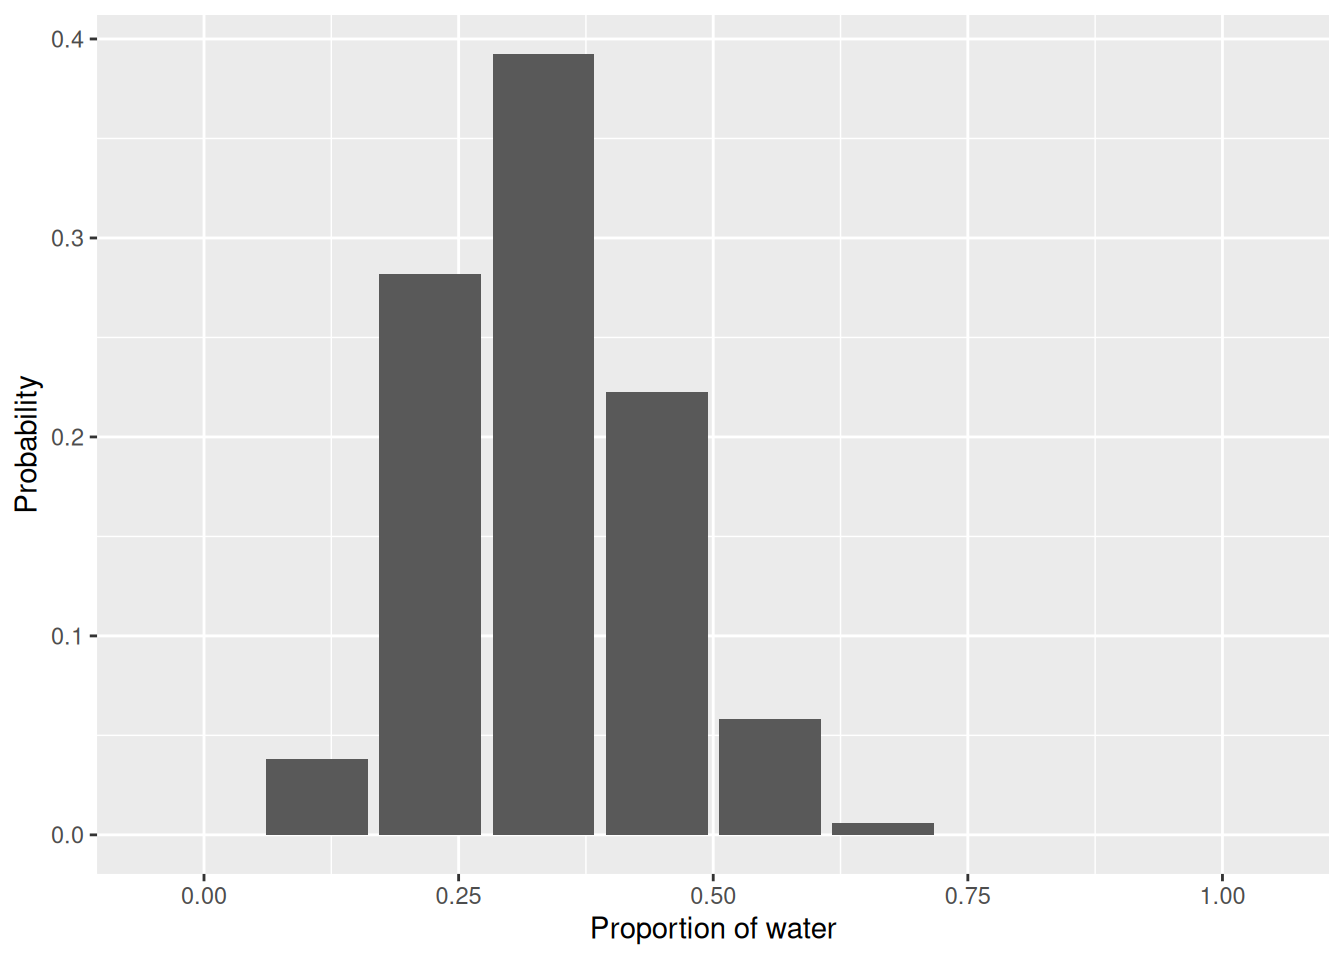
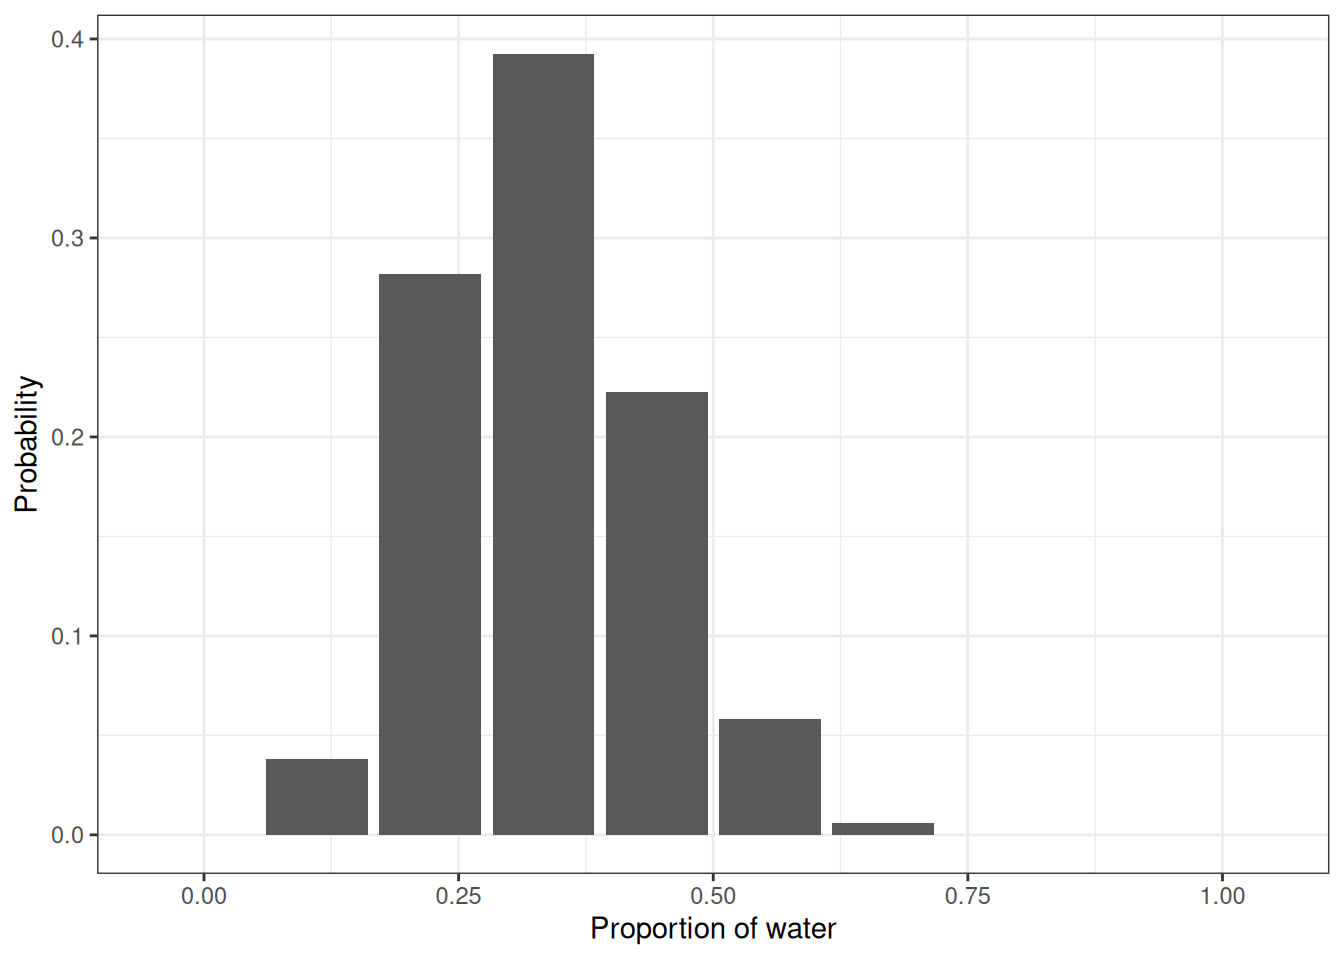
render

diff --git a/docs/homework/01-homework.html b/docs/homework/01-homework.html
@@ -185,7 +185,7 @@ pre > code.sourceCode > span > a:first-child::before { text-decoration: underlin
         <nav id="TOC" role="doc-toc" class="toc-active"><h2 id="toc-title">On this page</h2>
    
   <ul>
-<li><a href="#packages" id="toc-packages" class="nav-link active" data-scroll-target="#packages">Packages</a></li>
+<li><a href="#setup" id="toc-setup" class="nav-link active" data-scroll-target="#setup">Setup</a></li>
   <li><a href="#question-1" id="toc-question-1" class="nav-link" data-scroll-target="#question-1">Question 1</a></li>
   <li><a href="#question-2" id="toc-question-2" class="nav-link" data-scroll-target="#question-2">Question 2</a></li>
   <li><a href="#question-3-optional" id="toc-question-3-optional" class="nav-link" data-scroll-target="#question-3-optional">Question 3 (optional)</a></li>
@@ -218,10 +218,11 @@ pre > code.sourceCode > span > a:first-child::before { text-decoration: underlin
   </div>
   
 
-</header><section id="packages" class="level2"><h2 class="anchored" data-anchor-id="packages">Packages</h2>
+</header><section id="setup" class="level2"><h2 class="anchored" data-anchor-id="setup">Setup</h2>
 <div class="cell">
 <div class="sourceCode" id="cb1"><pre class="downlit sourceCode r code-with-copy"><code class="sourceCode R"><span><span class="kw"><a href="https://rdrr.io/r/base/library.html">library</a></span><span class="op">(</span><span class="va"><a href="https://ggplot2.tidyverse.org">ggplot2</a></span><span class="op">)</span></span>
-<span><span class="kw"><a href="https://rdrr.io/r/base/source.html">source</a></span><span class="op">(</span><span class="st">'R/globe_tossing.R'</span><span class="op">)</span></span></code><button title="Copy to Clipboard" class="code-copy-button"><i class="bi"></i></button></pre></div>
+<span><span class="kw"><a href="https://rdrr.io/r/base/source.html">source</a></span><span class="op">(</span><span class="st">'R/globe_tossing.R'</span><span class="op">)</span></span>
+<span><span class="fu"><a href="https://ggplot2.tidyverse.org/reference/theme_get.html">theme_set</a></span><span class="op">(</span><span class="fu"><a href="https://ggplot2.tidyverse.org/reference/ggtheme.html">theme_bw</a></span><span class="op">(</span><span class="op">)</span><span class="op">)</span></span></code><button title="Copy to Clipboard" class="code-copy-button"><i class="bi"></i></button></pre></div>
 </div>
 </section><section id="question-1" class="level2"><h2 class="anchored" data-anchor-id="question-1">Question 1</h2>
 <blockquote class="blockquote">
